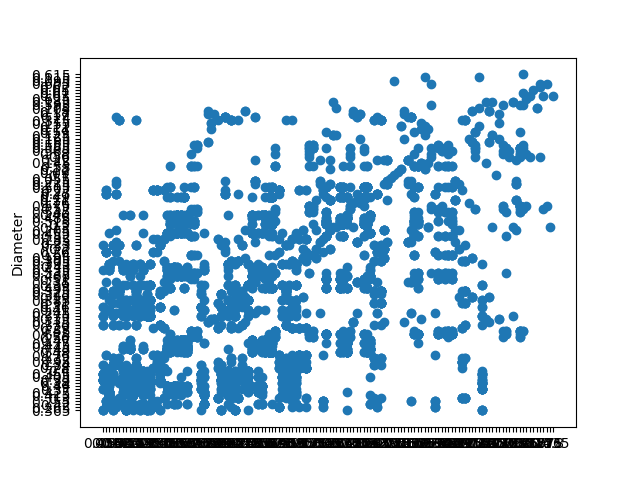
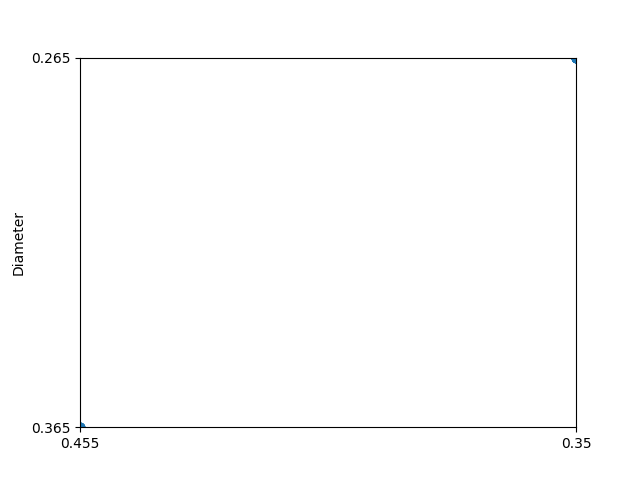
next test week 9

diff --git a/DSSA5001/Week9/plotter.py b/DSSA5001/Week9/plotter.py
@@ -14,10 +14,16 @@ with open(sys.argv[1], 'r') as file:
         diameter.append(row[2])
 
 fig, ax = plt.subplots(1,1)
+print(max(length))
+print(min(length))
+print(max(diameter))
+print(min(diameter))
 
 #feature1 = [1,2,3,4,5,6]
 #feature2 = [3,4,5,6,5,3]
 #ax.scatter(feature1, feature2)
+plt.xlim(0,1)
+plt.ylim(0,1)
 ax.scatter(length, diameter)
 ax.set_ylabel('Length')
 ax.set_ylabel('Diameter')
